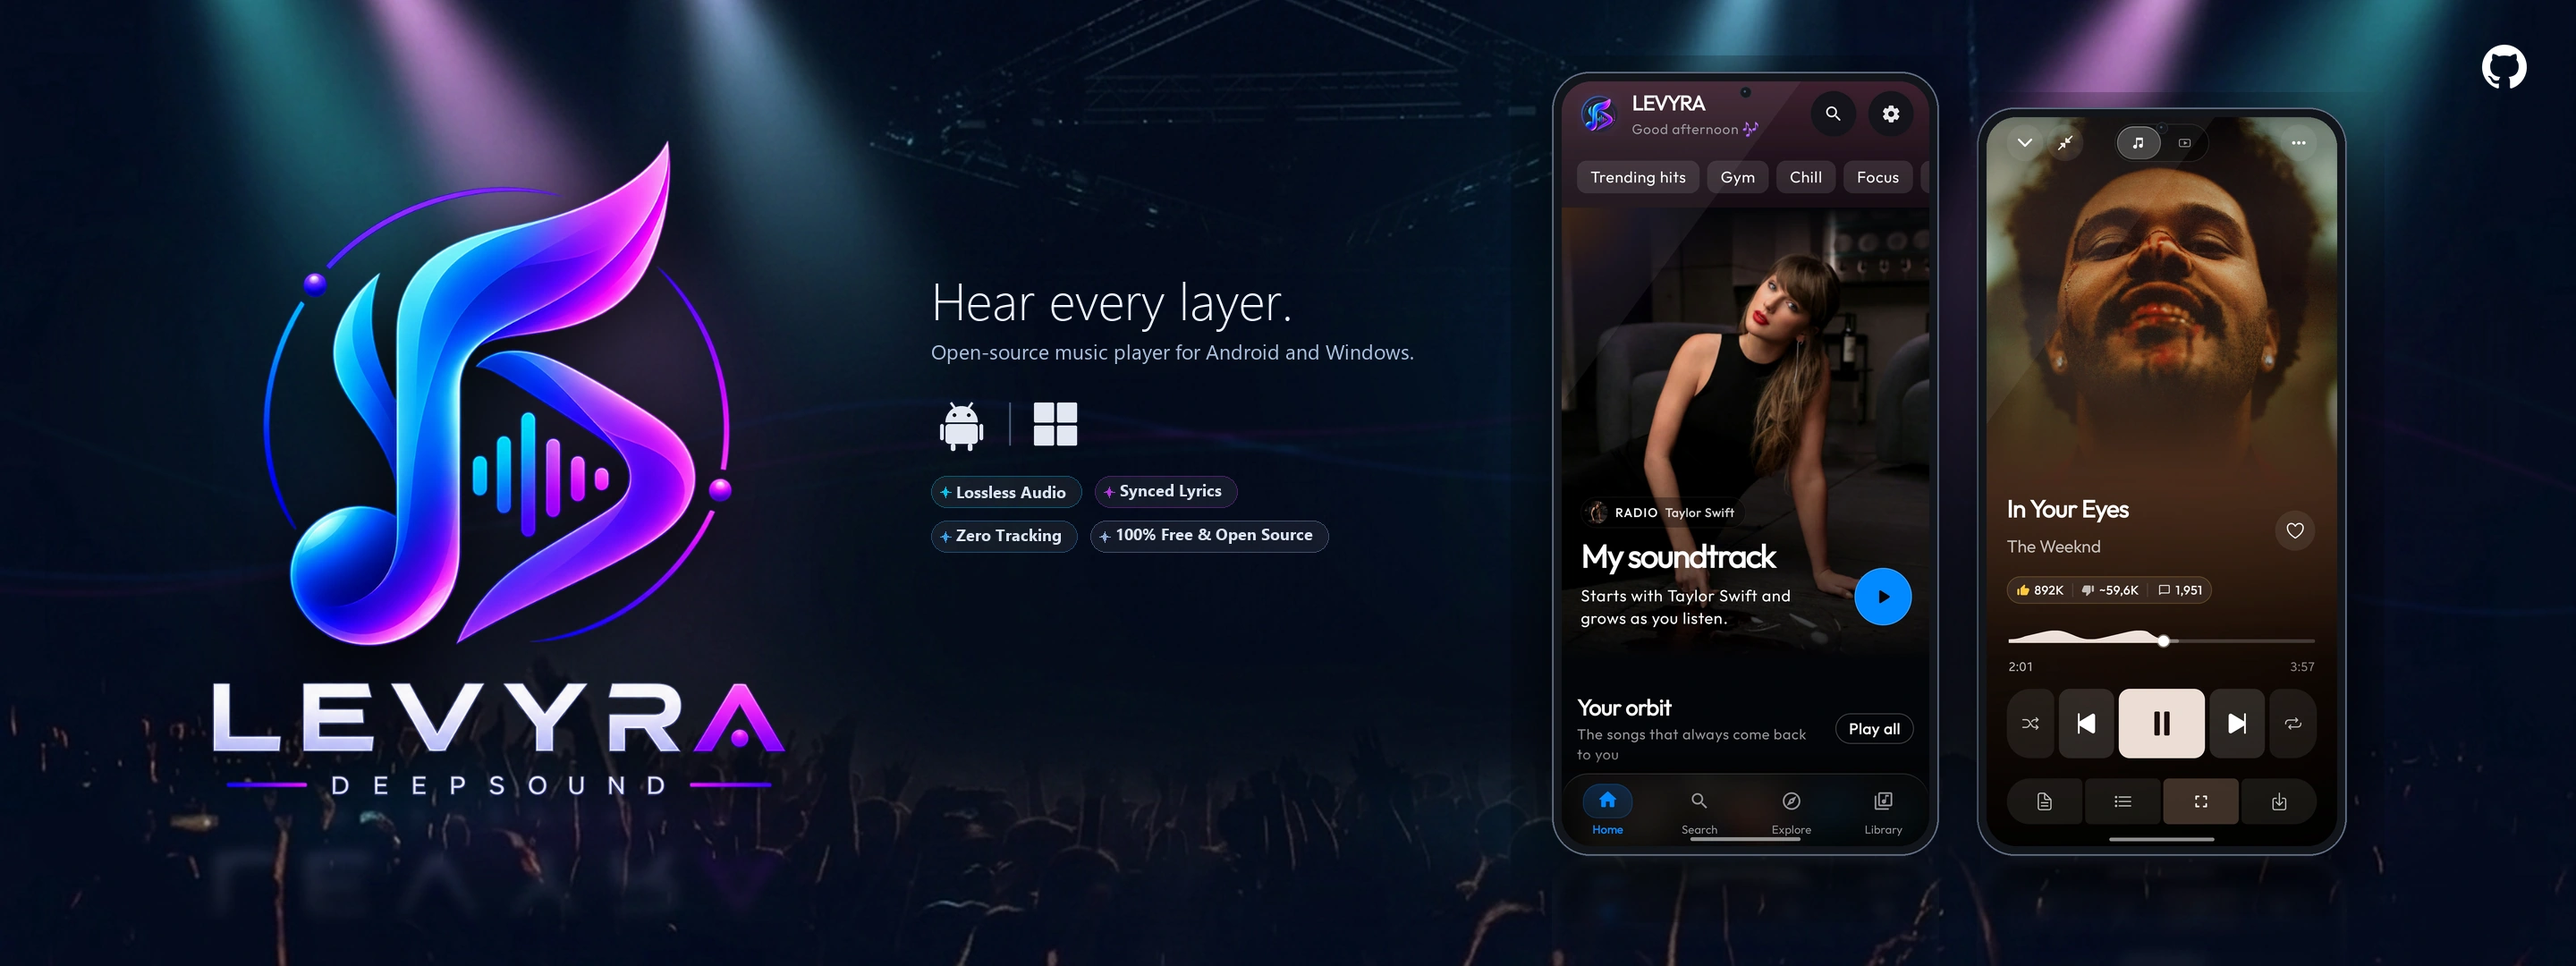
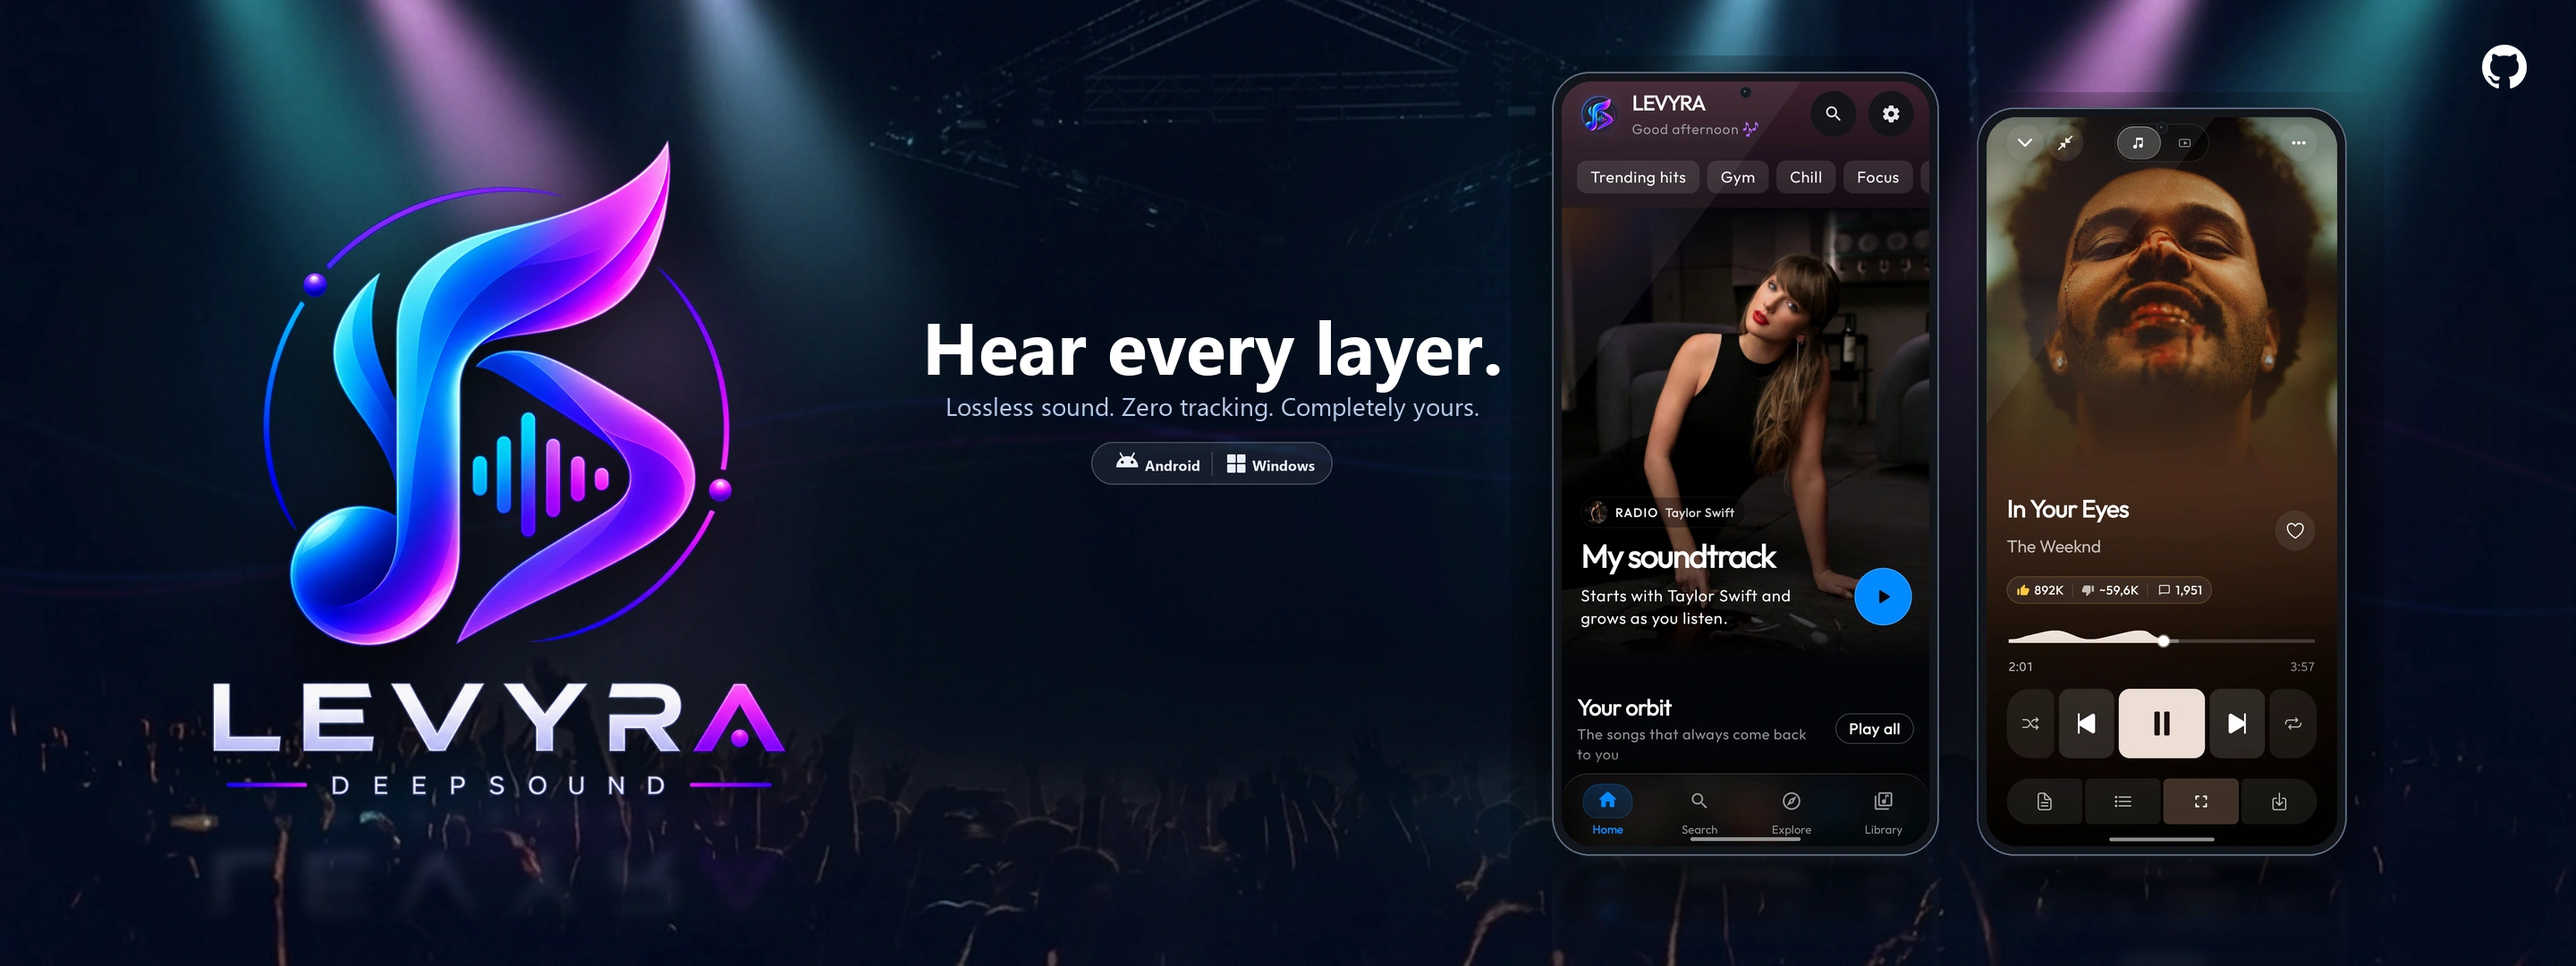
docs(readme): add 4th showcase row in README (16 cards total, 4 per row)
* docs: add 4th showcase row with Explore, New Releases, Collections, and Listening Rhythm

* docs: enrich colors across showcase cards 13-16 for vibrant contrast

* fix(tooling): handle font fallback without generic try-except-pass

* docs(banner): refine typography, remove badges, and center platform icons

* docs(banner): implement Option 1 editorial typography and glassmorphism platform pill

Changed region(s): [[0.3438, 0.3056, 0.5938, 0.5806]]

diff --git a/scripts/generate_main_banner.py b/scripts/generate_main_banner.py
@@ -86,11 +86,11 @@ def get_font(size, bold=False, light=False):
         if os.path.exists(font_path):
             try:
                 return ImageFont.truetype(font_path, size)
-            except Exception:
-                pass
+            except OSError:
+                continue
     try:
         return ImageFont.load_default(size)
-    except Exception:
+    except TypeError:
         return ImageFont.load_default()
 
 def draw_vector_diamond(draw, center, radius, color):
@@ -222,41 +222,51 @@ def add_studio_shadow(canvas, element_img, x, y, blur_radius=36, opacity=170, of
     shadow = shadow.filter(ImageFilter.GaussianBlur(blur_radius))
     canvas.paste(shadow, (x - blur_radius + offset[0], y - blur_radius + offset[1]), shadow)
 
-def draw_platform_icons(light_mode=False, ss=4):
-    """Renders official Android and Windows platform icons with text labels."""
-    w, h = 260 * ss, 64 * ss
-    img = Image.new('RGBA', (w, h), (0, 0, 0, 0))
-    draw = ImageDraw.Draw(img)
-    color = (25, 33, 48, 245) if light_mode else (235, 240, 252, 245)
-    eye_color = (240, 245, 255, 255) if light_mode else (15, 20, 30, 255)
-    div_color = (180, 195, 215, 220) if light_mode else (95, 115, 145, 200)
+def create_glass_platform_pill(light_mode=False):
+    """Renders a sleek frosted glass pill container with Android and Windows icons and labels."""
+    ss = 2
+    pw, ph = 270 * ss, 48 * ss
+    pill = Image.new('RGBA', (pw, ph), (0, 0, 0, 0))
+    pdraw = ImageDraw.Draw(pill)
 
-    ax, ay = 10 * ss, 6 * ss
-    draw.pieslice([ax + 6*ss, ay + 6*ss, ax + 42*ss, ay + 42*ss], 180, 360, fill=color)
-    draw.ellipse([ax + 14*ss, ay + 14*ss, ax + 18*ss, ay + 18*ss], fill=eye_color)
-    draw.ellipse([ax + 30*ss, ay + 14*ss, ax + 34*ss, ay + 18*ss], fill=eye_color)
-    draw.line([(ax + 12*ss, ay + 2*ss), (ax + 17*ss, ay + 9*ss)], fill=color, width=int(2.8*ss))
-    draw.line([(ax + 36*ss, ay + 2*ss), (ax + 31*ss, ay + 9*ss)], fill=color, width=int(2.8*ss))
-    draw.rounded_rectangle([ax + 6*ss, ay + 26*ss, ax + 42*ss, ay + 48*ss], radius=int(4*ss), fill=color)
-    draw.rounded_rectangle([ax, ay + 26*ss, ax + 4*ss, ay + 44*ss], radius=int(2*ss), fill=color)
-    draw.rounded_rectangle([ax + 44*ss, ay + 26*ss, ax + 48*ss, ay + 44*ss], radius=int(2*ss), fill=color)
-    draw.rounded_rectangle([ax + 12*ss, ay + 48*ss, ax + 17*ss, ay + 56*ss], radius=int(2*ss), fill=color)
-    draw.rounded_rectangle([ax + 31*ss, ay + 48*ss, ax + 36*ss, ay + 56*ss], radius=int(2*ss), fill=color)
+    fill_col = (255, 255, 255, 18) if not light_mode else (255, 255, 255, 200)
+    border_col = (255, 255, 255, 65) if not light_mode else (175, 190, 215, 200)
+    pdraw.rounded_rectangle([0, 0, pw - 1, ph - 1], radius=ph // 2, fill=fill_col, outline=border_col, width=int(1.5 * ss))
 
-    div_x = 88 * ss
-    draw.line([(div_x, 8*ss), (div_x, 56*ss)], fill=div_color, width=int(2*ss))
+    lbl_font = get_font(16 * ss, bold=True)
+    text_col = (240, 245, 255, 250) if not light_mode else (20, 28, 45, 250)
+    div_col = (255, 255, 255, 60) if not light_mode else (160, 175, 200, 180)
 
-    wx, wy = 115 * ss, 8 * ss
-    ww, wh = 48 * ss, 48 * ss
-    gap = int(3.5 * ss)
-    pw = (ww - gap) // 2
-    ph = (wh - gap) // 2
-    draw.rounded_rectangle([wx, wy, wx + pw, wy + ph], radius=int(1.5*ss), fill=color)
-    draw.rounded_rectangle([wx + pw + gap, wy, wx + ww, wy + ph], radius=int(1.5*ss), fill=color)
-    draw.rounded_rectangle([wx, wy + ph + gap, wx + pw, wy + wh], radius=int(1.5*ss), fill=color)
-    draw.rounded_rectangle([wx + pw + gap, wy + ph + gap, wx + ww, wy + wh], radius=int(1.5*ss), fill=color)
+    # Left side: Android icon + 'Android'
+    ax, ay = 28 * ss, 12 * ss
+    ico_col = text_col
+    eye_col = (10, 14, 22, 255) if not light_mode else (255, 255, 255, 255)
 
-    return img.resize((260, 64), Image.Resampling.LANCZOS)
+    pdraw.pieslice([ax, ay + 4 * ss, ax + 24 * ss, ay + 28 * ss], 180, 360, fill=ico_col)
+    pdraw.ellipse([ax + 5 * ss, ay + 9 * ss, ax + 8 * ss, ay + 12 * ss], fill=eye_col)
+    pdraw.ellipse([ax + 16 * ss, ay + 9 * ss, ax + 19 * ss, ay + 12 * ss], fill=eye_col)
+    pdraw.line([(ax + 4 * ss, ay), (ax + 7 * ss, ay + 5 * ss)], fill=ico_col, width=int(1.8 * ss))
+    pdraw.line([(ax + 20 * ss, ay), (ax + 17 * ss, ay + 5 * ss)], fill=ico_col, width=int(1.8 * ss))
+
+    pdraw.text((ax + 32 * ss, ay + 3 * ss), 'Android', font=lbl_font, fill=text_col)
+
+    # Divider
+    div_x = 135 * ss
+    pdraw.line([(div_x, 11 * ss), (div_x, 37 * ss)], fill=div_col, width=int(1.5 * ss))
+
+    # Right side: Windows icon + 'Windows'
+    wx, wy = 152 * ss, 14 * ss
+    ww = 20 * ss
+    gap = int(2.2 * ss)
+    pw_box = (ww - gap) // 2
+    pdraw.rounded_rectangle([wx, wy, wx + pw_box, wy + pw_box], radius=int(1 * ss), fill=ico_col)
+    pdraw.rounded_rectangle([wx + pw_box + gap, wy, wx + ww, wy + pw_box], radius=int(1 * ss), fill=ico_col)
+    pdraw.rounded_rectangle([wx, wy + pw_box + gap, wx + pw_box, wy + ww], radius=int(1 * ss), fill=ico_col)
+    pdraw.rounded_rectangle([wx + pw_box + gap, wy + pw_box + gap, wx + ww, wy + ww], radius=int(1 * ss), fill=ico_col)
+
+    pdraw.text((wx + 28 * ss, ay + 3 * ss), 'Windows', font=lbl_font, fill=text_col)
+
+    return pill.resize((270, 48), Image.Resampling.LANCZOS)
 
 def generate_dark_unified_banner():
     """Generates the dark mode unified banner with concert stage backdrop."""
@@ -339,45 +349,27 @@ def generate_dark_unified_banner():
     add_floor_reflection(canvas, logo_resized, logo_x, logo_base, max_alpha=75, fade_height=200, blur_val=8)
     canvas.paste(logo_resized, (logo_x, logo_y), logo_resized)
 
-    # 6. Middle Typography & Badges
-    mid_x = logo_x + target_w + 65
+    # 6. Middle Typography & Platform Glass Pill (Centered editorial lockup)
+    col_center = 1355
     draw = ImageDraw.Draw(canvas)
-    tagline_font = get_font(58, light=True)
-    tag_y = 295
-    draw.text((mid_x, tag_y), "Hear every layer.", font=tagline_font, fill=(240, 245, 255, 255))
+    tagline_font = get_font(82, bold=True)
+    tag_y = 330
+    title_text = "Hear every layer."
+    t_bbox = tagline_font.getbbox(title_text)
+    tw = t_bbox[2] - t_bbox[0]
+    draw.text((col_center - tw // 2, tag_y), title_text, font=tagline_font, fill=(255, 255, 255, 255))
 
-    sub_font = get_font(23, light=False)
-    sub_y = tag_y + 82
-    draw.text((mid_x, sub_y), "Open-source music player for Android and Windows.", font=sub_font, fill=(175, 195, 225, 235))
+    sub_font = get_font(28, light=False)
+    sub_y = tag_y + 104
+    sub_text = "Lossless sound. Zero tracking. Completely yours."
+    s_bbox = sub_font.getbbox(sub_text)
+    sw = s_bbox[2] - s_bbox[0]
+    draw.text((col_center - sw // 2, sub_y), sub_text, font=sub_font, fill=(185, 205, 235, 240))
 
-    icons = draw_platform_icons(light_mode=False)
-    icons_y = sub_y + 65
-    canvas.paste(icons, (mid_x, icons_y), icons)
-
-    pills = [
-        ("Lossless Audio", (0, 210, 255)),
-        ("Synced Lyrics", (195, 55, 235)),
-        ("Zero Tracking", (55, 170, 250)),
-        ("100% Free & Open Source", (150, 180, 225))
-    ]
-    pill_font = get_font(18, bold=True)
-    row1, row2 = pills[:2], pills[2:]
-    p_base_y = icons_y + 90
-    for row, y_pos in [(row1, p_base_y), (row2, p_base_y + 50)]:
-        curr_x = mid_x
-        for label, glow_col in row:
-            bbox = pill_font.getbbox(label)
-            pw = bbox[2] - bbox[0] + 46
-            ph = 36
-            p_surf = Image.new("RGBA", (pw, ph), (0, 0, 0, 0))
-            p_draw = ImageDraw.Draw(p_surf)
-            p_draw.rounded_rectangle([0, 0, pw - 1, ph - 1], radius=ph // 2,
-                                     fill=(255, 255, 255, 16),
-                                     outline=(glow_col[0], glow_col[1], glow_col[2], 100), width=1)
-            draw_vector_diamond(p_draw, (16, ph // 2), 6, (glow_col[0], glow_col[1], glow_col[2], 240))
-            p_draw.text((28, (ph - (bbox[3] - bbox[1])) // 2 - bbox[1]), label, font=pill_font, fill=(230, 240, 255, 245))
-            canvas.paste(p_surf, (curr_x, y_pos), p_surf)
-            curr_x += pw + 14
+    pill = create_glass_platform_pill(light_mode=False)
+    pill_x = col_center - pill.width // 2
+    pill_y = sub_y + 60
+    canvas.paste(pill, (pill_x, pill_y), pill)
 
     # 7. Phones
     phone_hero = create_ultra_flagship_phone(SCREEN_HOME_PATH, target_height=855, light_mode=False)
@@ -485,45 +477,27 @@ def generate_light_unified_banner():
     add_floor_reflection(canvas, logo_resized, logo_x, logo_base, max_alpha=40, fade_height=190, blur_val=7)
     canvas.paste(logo_resized, (logo_x, logo_y), logo_resized)
 
-    # 6. Middle Typography & Badges (Dark Slate)
-    mid_x = logo_x + target_w + 65
+    # 6. Middle Typography & Platform Glass Pill (Centered editorial lockup)
+    col_center = 1355
     draw = ImageDraw.Draw(canvas)
-    tagline_font = get_font(58, bold=True)
-    tag_y = 295
-    draw.text((mid_x, tag_y), "Hear every layer.", font=tagline_font, fill=(15, 23, 42, 255))
+    tagline_font = get_font(82, bold=True)
+    tag_y = 330
+    title_text = "Hear every layer."
+    t_bbox = tagline_font.getbbox(title_text)
+    tw = t_bbox[2] - t_bbox[0]
+    draw.text((col_center - tw // 2, tag_y), title_text, font=tagline_font, fill=(15, 23, 42, 255))
 
-    sub_font = get_font(23, light=False)
-    sub_y = tag_y + 82
-    draw.text((mid_x, sub_y), "Open-source music player for Android and Windows.", font=sub_font, fill=(71, 85, 105, 240))
+    sub_font = get_font(28, light=False)
+    sub_y = tag_y + 104
+    sub_text = "Lossless sound. Zero tracking. Completely yours."
+    s_bbox = sub_font.getbbox(sub_text)
+    sw = s_bbox[2] - s_bbox[0]
+    draw.text((col_center - sw // 2, sub_y), sub_text, font=sub_font, fill=(71, 85, 105, 240))
 
-    icons = draw_platform_icons(light_mode=True)
-    icons_y = sub_y + 65
-    canvas.paste(icons, (mid_x, icons_y), icons)
-
-    pills = [
-        ("Lossless Audio", (0, 160, 220)),
-        ("Synced Lyrics", (170, 45, 210)),
-        ("Zero Tracking", (30, 130, 215)),
-        ("100% Free & Open Source", (100, 120, 160))
-    ]
-    pill_font = get_font(18, bold=True)
-    row1, row2 = pills[:2], pills[2:]
-    p_base_y = icons_y + 90
-    for row, y_pos in [(row1, p_base_y), (row2, p_base_y + 50)]:
-        curr_x = mid_x
-        for label, glow_col in row:
-            bbox = pill_font.getbbox(label)
-            pw = bbox[2] - bbox[0] + 46
-            ph = 36
-            p_surf = Image.new("RGBA", (pw, ph), (0, 0, 0, 0))
-            p_draw = ImageDraw.Draw(p_surf)
-            p_draw.rounded_rectangle([0, 0, pw - 1, ph - 1], radius=ph // 2,
-                                     fill=(255, 255, 255, 220),
-                                     outline=(glow_col[0], glow_col[1], glow_col[2], 120), width=1)
-            draw_vector_diamond(p_draw, (16, ph // 2), 6, (glow_col[0], glow_col[1], glow_col[2], 255))
-            p_draw.text((28, (ph - (bbox[3] - bbox[1])) // 2 - bbox[1]), label, font=pill_font, fill=(15, 23, 42, 245))
-            canvas.paste(p_surf, (curr_x, y_pos), p_surf)
-            curr_x += pw + 14
+    pill = create_glass_platform_pill(light_mode=True)
+    pill_x = col_center - pill.width // 2
+    pill_y = sub_y + 60
+    canvas.paste(pill, (pill_x, pill_y), pill)
 
     # 7. Phones
     phone_hero = create_ultra_flagship_phone(SCREEN_HOME_PATH, target_height=855, light_mode=True)

diff --git a/scripts/generate_showcase_assets.py b/scripts/generate_showcase_assets.py
@@ -10,28 +10,45 @@ os.makedirs(OUT_SHOWCASE_DIR, exist_ok=True)
 os.makedirs(OUT_CARDS_DIR, exist_ok=True)
 
 SCREENS = {
-    "home": r"C:\Users\Luca Drogo\Downloads\Screenshot_20260926_171253_LEVYRA.jpg",
+    "home": os.environ.get("LEVYRA_SCREEN_HOME", r"C:\Users\Luca Drogo\Desktop\screenshots\Screenshot_20260926_171253_LEVYRA.jpg"),
     "charts": "screen-charts.jpg",
     "genres": "screen-genres.jpg",
-    "listening_pulse": r"C:\Users\Luca Drogo\Downloads\Screenshot_20260926_193717_LEVYRA.jpg",
+    "listening_pulse": os.environ.get("LEVYRA_SCREEN_PULSE", r"C:\Users\Luca Drogo\Desktop\screenshots\Screenshot_20260926_193717_LEVYRA.jpg"),
     "lyrics": "screen-lyrics.jpg",
-    "now_playing": r"C:\Users\Luca Drogo\Downloads\Screenshot_20260926_193948_LEVYRA.jpg",
+    "now_playing": os.environ.get("LEVYRA_SCREEN_PLAYER", r"C:\Users\Luca Drogo\Desktop\screenshots\Screenshot_20260926_193948_LEVYRA.jpg"),
     "search_artist": "screen-search-artist.jpg",
     "artist_discography": "screen-artist-discography.jpg",
-    "artist_profile": r"C:\Users\Luca Drogo\Downloads\Screenshot_20260926_194603_LEVYRA.jpg",
-    "album": r"C:\Users\Luca Drogo\Downloads\Screenshot_20260926_194706_LEVYRA.jpg",
-    "search": r"C:\Users\Luca Drogo\Downloads\Screenshot_20260926_194736_LEVYRA.jpg",
-    "player_settings": r"C:\Users\Luca Drogo\Downloads\Screenshot_20260926_194845_LEVYRA.jpg",
+    "artist_profile": os.environ.get("LEVYRA_SCREEN_ARTIST", r"C:\Users\Luca Drogo\Desktop\screenshots\Screenshot_20260926_194603_LEVYRA.jpg"),
+    "album": os.environ.get("LEVYRA_SCREEN_ALBUM", r"C:\Users\Luca Drogo\Desktop\screenshots\Screenshot_20260926_194706_LEVYRA.jpg"),
+    "search": os.environ.get("LEVYRA_SCREEN_SEARCH", r"C:\Users\Luca Drogo\Desktop\screenshots\Screenshot_20260926_194736_LEVYRA.jpg"),
+    "player_settings": os.environ.get("LEVYRA_SCREEN_SETTINGS", r"C:\Users\Luca Drogo\Desktop\screenshots\Screenshot_20260926_194845_LEVYRA.jpg"),
+    "explore": os.environ.get("LEVYRA_SCREEN_EXPLORE", r"C:\Users\Luca Drogo\Downloads\Screenshot_20260927_140841_LEVYRA.jpg"),
+    "new_releases": os.environ.get("LEVYRA_SCREEN_RELEASES", r"C:\Users\Luca Drogo\Downloads\Screenshot_20260927_132248_LEVYRA.jpg"),
+    "collections": os.environ.get("LEVYRA_SCREEN_COLLECTIONS", r"C:\Users\Luca Drogo\Downloads\Screenshot_20260927_132323_LEVYRA.jpg"),
+    "listening_rhythm": os.environ.get("LEVYRA_SCREEN_RHYTHM", r"C:\Users\Luca Drogo\Downloads\Screenshot_20260927_131943_LEVYRA.jpg"),
 }
 
 def get_screen_path(filename):
     return filename if os.path.isabs(filename) else os.path.join(SCREENSHOT_DIR, filename)
 
 def get_font(size, bold=False):
-    font_path = r"C:\Windows\Fonts\segoeuib.ttf" if bold else r"C:\Windows\Fonts\segoeui.ttf"
-    if not os.path.exists(font_path):
-        font_path = r"C:\Windows\Fonts\arialbd.ttf" if bold else r"C:\Windows\Fonts\arial.ttf"
-    return ImageFont.truetype(font_path, size)
+    """Loads a TrueType font across Windows/Linux/macOS or falls back safely to default font."""
+    candidates = [
+        r"C:\Windows\Fonts\segoeuib.ttf" if bold else r"C:\Windows\Fonts\segoeui.ttf",
+        r"C:\Windows\Fonts\arialbd.ttf" if bold else r"C:\Windows\Fonts\arial.ttf",
+        "/usr/share/fonts/truetype/dejavu/DejaVuSans-Bold.ttf" if bold else "/usr/share/fonts/truetype/dejavu/DejaVuSans.ttf",
+        "/System/Library/Fonts/SFCompactText-Bold.ttf" if bold else "/System/Library/Fonts/SFCompactText.ttf"
+    ]
+    for font_path in candidates:
+        if os.path.exists(font_path):
+            try:
+                return ImageFont.truetype(font_path, size)
+            except OSError:
+                continue
+    try:
+        return ImageFont.load_default(size)
+    except TypeError:
+        return ImageFont.load_default()
 
 def enhance_screenshot(img):
     """Subtle polish: OLED contrast, slight vibrance, crisp sharpness."""
@@ -370,6 +387,10 @@ def generate_feature_cards():
         ("album", "10", "Open the whole album", "Artwork, context,\nand a complete tracklist.", (238, 221, 203), (199, 151, 106)),
         ("search", "11", "Find it fast", "Recent music and artists,\nready when you return.", (205, 228, 231), (105, 177, 181)),
         ("player_settings", "12", "Shape the playback", "Radio, sleep timer,\nquality, and more.", (232, 211, 226), (190, 127, 169)),
+        ("explore", "13", "Explore and mix", "Live stations, custom mixes,\nand fresh currents.", (205, 225, 245), (68, 138, 245)),
+        ("new_releases", "14", "Fresh off the stage", "New singles and albums\nupdated every week.", (245, 215, 210), (225, 115, 95)),
+        ("collections", "15", "Curated for you", "Playlists and gems\naround what you love.", (226, 212, 244), (152, 95, 215)),
+        ("listening_rhythm", "16", "Your listening rhythm", "Activity, peak hours,\nand listening habits.", (210, 238, 225), (72, 180, 135)),
     ]
 
     label_font = get_font(19, bold=True)

diff --git a/README.md b/README.md
@@ -131,6 +131,12 @@ Artwork, lyrics, queue position, listening history and recommendations still bel
   <a href="docs/assets/showcase/cards/11_search.webp"><img src="docs/assets/showcase/cards/11_search.webp" width="200" alt="Levyra search history and artists" /></a>
   <a href="docs/assets/showcase/cards/12_player_settings.webp"><img src="docs/assets/showcase/cards/12_player_settings.webp" width="200" alt="Levyra player settings" /></a>
 </p>
+<p align="center">
+  <a href="docs/assets/showcase/cards/13_explore.webp"><img src="docs/assets/showcase/cards/13_explore.webp" width="200" alt="Levyra explore and mix hub" /></a>
+  <a href="docs/assets/showcase/cards/14_new_releases.webp"><img src="docs/assets/showcase/cards/14_new_releases.webp" width="200" alt="Levyra new releases" /></a>
+  <a href="docs/assets/showcase/cards/15_collections.webp"><img src="docs/assets/showcase/cards/15_collections.webp" width="200" alt="Levyra curated collections and playlists" /></a>
+  <a href="docs/assets/showcase/cards/16_listening_rhythm.webp"><img src="docs/assets/showcase/cards/16_listening_rhythm.webp" width="200" alt="Levyra listening rhythm and habits" /></a>
+</p>
 
 </div>
 
